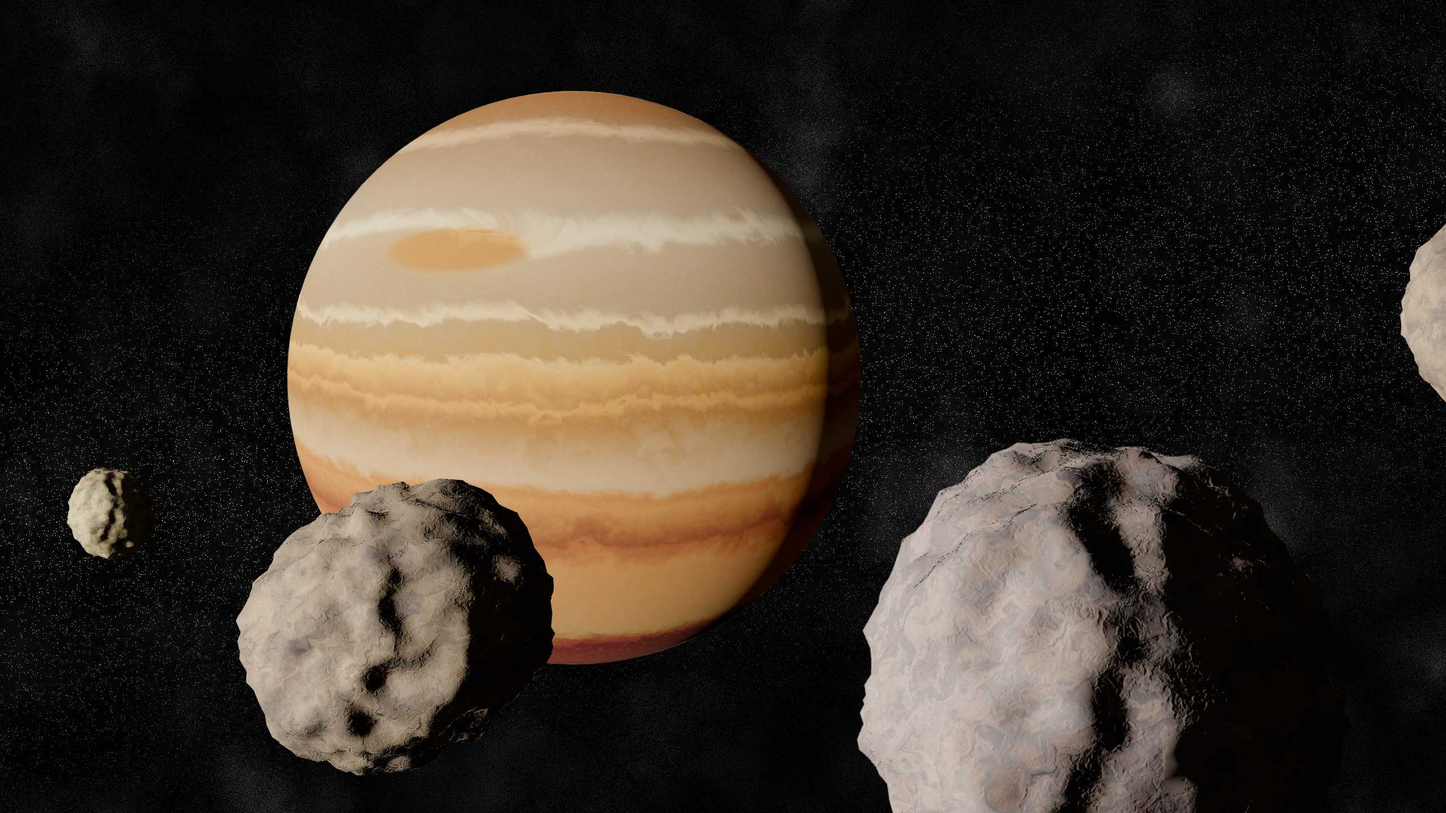
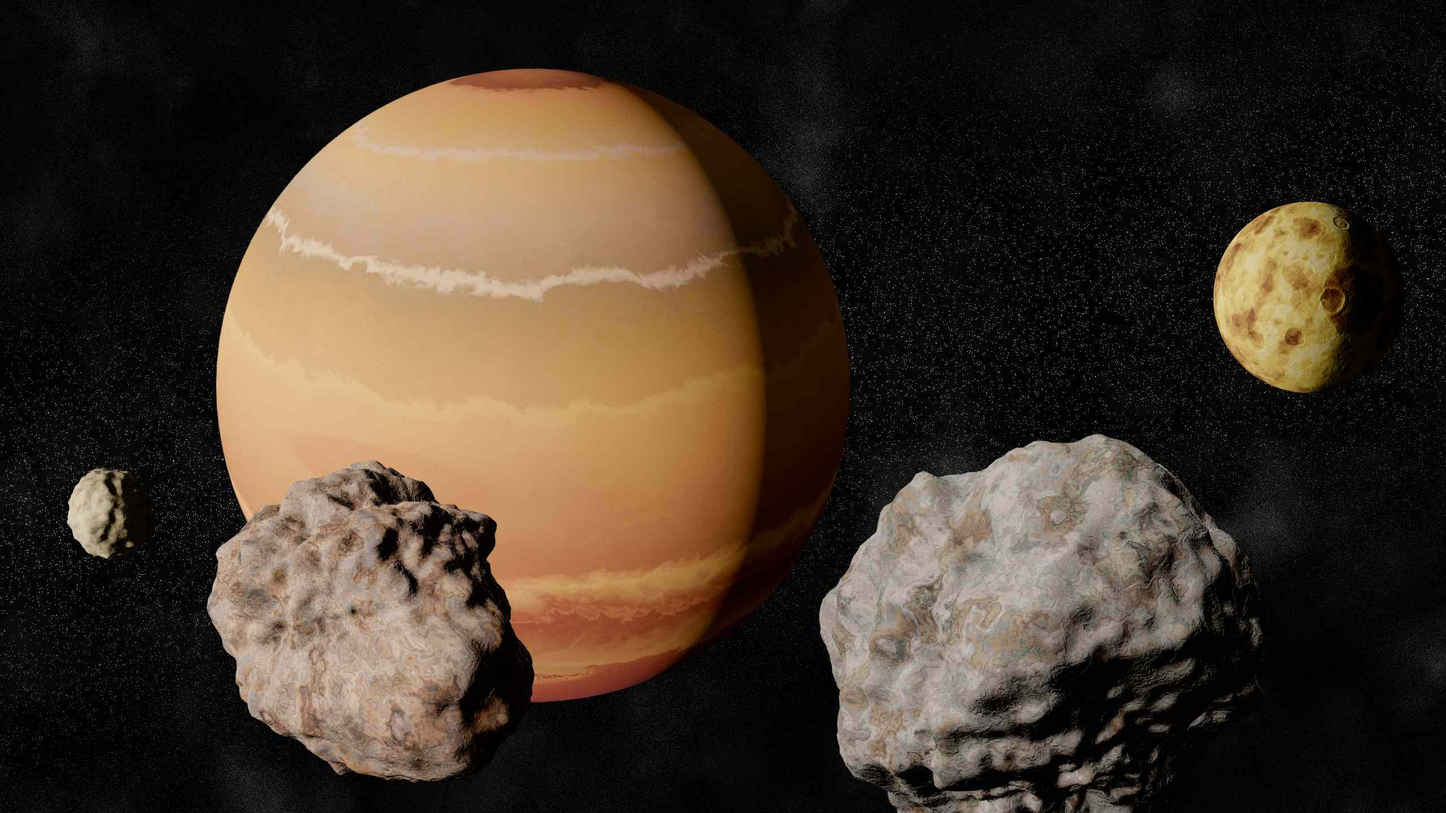
Crater scale setting

diff --git a/src/lib/components/Threlte/Objects/PlanetoidGpuTextures.ts b/src/lib/components/Threlte/Objects/PlanetoidGpuTextures.ts
@@ -25,6 +25,7 @@ type PaletteColor = { r: number; g: number; b: number }
 type SurfaceDetailTextureOptions = {
   enableCraters?: boolean
   craterCount?: number
+  craterScale?: number
   craterStrength?: number
   craterSharpness?: number
   enableVolcanoes?: boolean
@@ -64,6 +65,7 @@ type ColorTextureOptions = {
   debugMidline?: boolean
   enableCraters?: boolean
   craterCount?: number
+  craterScale?: number
   craterColorStrength?: number
   craterSharpness?: number
   enableVolcanoes?: boolean
@@ -100,6 +102,7 @@ const fragmentShader = `
   uniform float uTextureScale;
   uniform int uEnableCraters;
   uniform int uCraterCount;
+  uniform float uCraterScale;
   uniform float uCraterStrength;
   uniform float uCraterColorStrength;
   uniform float uCraterSharpness;
@@ -278,17 +281,6 @@ const fragmentShader = `
 
     float minRadius = 0.018;
     float maxRadius = 0.078;
-    float largeCount = max(1.0, floor(float(uCraterCount) * 0.15 + 0.5));
-
-    float normalizedRadius;
-    if (fi < largeCount) {
-      normalizedRadius = 1.0 - pow(radiusSample, 2.4);
-    } else {
-      normalizedRadius = pow(radiusSample, 3.2);
-    }
-
-    centerUv = vec2(u, v);
-    radius = mix(minRadius, maxRadius, normalizedRadius);
 
     float countMinusOne = max(1.0, float(uCraterCount - 1));
     float chronology = fi / countMinusOne;
@@ -296,6 +288,29 @@ const fragmentShader = `
 
     // Older craters are laid first in index order and are generally more eroded.
     age = clamp(1.0 - chronology + ageJitter, 0.0, 1.0);
+
+    // Older craters trend larger, but with pseudo-random local variance so the
+    // age-size relationship is not perfectly linear.
+    float sizeNoiseA = hash12(vec2(fi * 4.11, uSeed.x * 0.001 + 131.0));
+    float sizeNoiseB = hash12(vec2(fi * 6.73, uSeed.y * 0.001 + 173.0));
+    float ageBias = pow(age, 1.35);
+    float variance = (sizeNoiseA - 0.5) * 0.55 + (sizeNoiseB - 0.5) * 0.25;
+    float effectiveAge = clamp(ageBias + variance, 0.0, 1.0);
+
+    float localExponent = mix(3.2, 1.15, effectiveAge);
+    float normalizedRadius = pow(radiusSample, localExponent);
+
+    // Occasionally produce very large old impact basins without making all old
+    // craters giant.
+    float basinChance = smoothstep(0.72, 1.0, effectiveAge);
+    float basinNoise = hash12(vec2(fi * 9.47, uSeed.z * 0.001 + 211.0));
+    float basinBoost = basinChance * pow(basinNoise, 3.0) * 0.35;
+    normalizedRadius = clamp(normalizedRadius + basinBoost, 0.0, 1.0);
+
+    centerUv = vec2(u, v);
+    float baseRadius = mix(minRadius, maxRadius, normalizedRadius);
+    float scale = clamp(uCraterScale, 0.25, 3.0);
+    radius = baseRadius * scale;
   }
 
   float craterNormalizedDistance(vec2 uv, vec2 craterUv, float craterRadius, float craterAge) {
@@ -826,6 +841,7 @@ const material = new ShaderMaterial({
     uTextureScale: new Uniform(1),
     uEnableCraters: new Uniform(1),
     uCraterCount: new Uniform(22),
+    uCraterScale: new Uniform(1),
     uCraterStrength: new Uniform(0.32),
     uCraterColorStrength: new Uniform(0.3),
     uCraterSharpness: new Uniform(CRATER_RIM_SHARPNESS),
@@ -931,6 +947,7 @@ function renderTexture(
     textureScale?: number
     enableCraters?: boolean
     craterCount?: number
+    craterScale?: number
     craterStrength?: number
     craterColorStrength?: number
     craterSharpness?: number
@@ -975,6 +992,12 @@ function renderTexture(
   material.uniforms.uTextureScale.value = toFiniteNumber(options.textureScale, 1)
   material.uniforms.uEnableCraters.value = (options.enableCraters ?? true) ? 1 : 0
   material.uniforms.uCraterCount.value = Math.min(96, toNonNegativeInt(options.craterCount, 22))
+  material.uniforms.uCraterScale.value = toClampedNumber(
+    options.craterScale,
+    DefaultValues.craterScale,
+    MinValues.craterScale,
+    MaxValues.craterScale
+  )
   material.uniforms.uCraterStrength.value = toClampedNumber(
     options.craterStrength,
     DefaultValues.craterStrength,
@@ -1143,6 +1166,7 @@ export function createPlanetoidColorTexture(
     textureScale,
     enableCraters: options.enableCraters,
     craterCount: options.craterCount,
+    craterScale: options.craterScale,
     craterColorStrength: options.craterColorStrength,
     craterSharpness: options.craterSharpness,
     enableVolcanoes: options.enableVolcanoes,
@@ -1184,6 +1208,7 @@ export function createPlanetoidNormalTexture(
   const texture = renderTexture(renderer, 4, width, height, noiseOffset, {
     enableCraters: options.enableCraters,
     craterCount: options.craterCount,
+    craterScale: options.craterScale,
     craterStrength: options.craterStrength,
     craterSharpness: options.craterSharpness,
     enableVolcanoes: options.enableVolcanoes,

diff --git a/src/lib/components/Threlte/Objects/PlanetoidSettings.ts b/src/lib/components/Threlte/Objects/PlanetoidSettings.ts
@@ -27,6 +27,7 @@ export type PlanetoidSettings = {
   tintShadowFloor: number
   swirliness: number
   craterCount: number
+  craterScale: number
   craterStrength: number
   craterSharpness: number
   craterColorStrength: number
@@ -73,6 +74,7 @@ export type PlanetoidRangeValues = Pick<
   | 'tintShadowFloor'
   | 'swirliness'
   | 'craterCount'
+  | 'craterScale'
   | 'craterStrength'
   | 'craterSharpness'
   | 'craterColorStrength'
@@ -119,6 +121,7 @@ export const DefaultValues: PlanetoidSettings = {
   tintShadowFloor: 0.18,
   swirliness: 1,
   craterCount: 20,
+  craterScale: 1,
   craterStrength: 5,
   craterSharpness: 3.5,
   craterColorStrength: 0.95,
@@ -155,6 +158,7 @@ export const MinValues: PlanetoidRangeValues = {
   tintShadowFloor: 0,
   swirliness: 0,
   craterCount: 0,
+  craterScale: 0.25,
   craterStrength: 0,
   craterSharpness: 0.5,
   craterColorStrength: 0,
@@ -191,6 +195,7 @@ export const MaxValues: PlanetoidRangeValues = {
   tintShadowFloor: 0.8,
   swirliness: 2,
   craterCount: 120,
+  craterScale: 3,
   craterStrength: 10,
   craterSharpness: 8,
   craterColorStrength: 3,
@@ -227,6 +232,7 @@ export const StepValues: PlanetoidRangeValues = {
   tintShadowFloor: 0.01,
   swirliness: 0.05,
   craterCount: 1,
+  craterScale: 0.05,
   craterStrength: 0.1,
   craterSharpness: 0.1,
   craterColorStrength: 0.05,
@@ -284,6 +290,11 @@ const NUMERIC_SANITIZE_SPECS: Record<PlanetoidRangeKey, NumericSanitizeSpec> = {
     min: MinValues.craterCount,
     max: MaxValues.craterCount,
     round: true,
+  },
+  craterScale: {
+    defaultValue: DefaultValues.craterScale,
+    min: MinValues.craterScale,
+    max: MaxValues.craterScale,
   },
   craterStrength: {
     defaultValue: DefaultValues.craterStrength,
@@ -451,6 +462,7 @@ export function sanitizePlanetoidSettings(input: unknown): PlanetoidSettings {
     tintShadowFloor: numeric.tintShadowFloor,
     swirliness: numeric.swirliness,
     craterCount: numeric.craterCount,
+    craterScale: numeric.craterScale,
     craterStrength: numeric.craterStrength,
     craterSharpness: numeric.craterSharpness,
     craterColorStrength: numeric.craterColorStrength,
@@ -523,6 +535,7 @@ export const PlanetoidRangeLabels: Record<PlanetoidRangeKey, string> = {
   tintShadowFloor: 'Tint shadow floor',
   swirliness: 'Swirliness',
   craterCount: 'Crater count',
+  craterScale: 'Crater scale',
   craterStrength: 'Crater strength',
   craterSharpness: 'Crater sharpness',
   craterColorStrength: 'Crater color',
@@ -581,6 +594,7 @@ export const PlanetoidCliFlagByRangeKey: Record<PlanetoidRangeKey, string> = {
   tintShadowFloor: '--tint-shadow-floor',
   swirliness: '--swirliness',
   craterCount: '--crater-count',
+  craterScale: '--crater-scale',
   craterStrength: '--crater-strength',
   craterSharpness: '--crater-sharpness',
   craterColorStrength: '--crater-color',

diff --git a/src/lib/components/Threlte/Objects/Planetoid.svelte b/src/lib/components/Threlte/Objects/Planetoid.svelte
@@ -43,6 +43,7 @@
     normalStrength?: number
     enableCraters?: boolean
     craterCount?: number
+    craterScale?: number
     craterStrength?: number
     craterSharpness?: number
     craterColorStrength?: number
@@ -88,6 +89,7 @@
     normalStrength = DefaultValues.normalStrength,
     enableCraters = DefaultValues.enableCraters,
     craterCount = DefaultValues.craterCount,
+    craterScale = DefaultValues.craterScale,
     craterStrength = DefaultValues.craterStrength,
     craterSharpness = DefaultValues.craterSharpness,
     craterColorStrength = DefaultValues.craterColorStrength,
@@ -577,6 +579,7 @@
     const planetoidPalette = AllPalettes[palette]
     const textureScale = colorScale
     const currentCraterCount = craterCount
+    const currentCraterScale = craterScale
     const currentCraterColorStrength = craterColorStrength
     const currentCraterSharpness = craterSharpness
     const currentEnableCraters = enableCraters
@@ -611,6 +614,7 @@
         tintShadowFloor: currentTintShadowFloor,
         swirliness: currentSwirliness,
         craterCount: currentCraterCount,
+        craterScale: currentCraterScale,
         craterColorStrength: currentCraterColorStrength,
         craterSharpness: currentCraterSharpness,
         enableCraters: currentEnableCraters,
@@ -712,6 +716,7 @@
     const currentNormalStrength = normalStrength
     const currentEnableCraters = enableCraters
     const currentCraterCount = craterCount
+    const currentCraterScale = craterScale
     const currentCraterStrength = craterStrength
     const currentCraterSharpness = craterSharpness
     const volcanoesEnabled = enableVolcanoes
@@ -732,6 +737,7 @@
 
     const detailOptions = {
       craterCount: currentCraterCount,
+      craterScale: currentCraterScale,
       craterStrength: currentCraterStrength,
       craterSharpness: currentCraterSharpness,
       enableCraters: currentEnableCraters,

diff --git a/scripts/auto-generate-planetoids.ts b/scripts/auto-generate-planetoids.ts
@@ -44,6 +44,7 @@ type ScriptOptions = {
   tintShadowFloor?: number
   swirliness?: number
   craterCount?: number
+  craterScale?: number
   craterStrength?: number
   craterColorStrength?: number
   ridgeStrength?: number
@@ -99,6 +100,7 @@ const DEFAULT_OPTIONS: ScriptOptions = {
   tintShadowFloor: undefined,
   swirliness: undefined,
   craterCount: undefined,
+  craterScale: undefined,
   craterStrength: undefined,
   craterColorStrength: undefined,
   ridgeStrength: undefined,
@@ -497,6 +499,7 @@ async function main() {
       `tintShadowFloor=${options.tintShadowFloor ?? 'unchanged'}`,
       `swirliness=${options.swirliness ?? 'unchanged'}`,
       `craterCount=${options.craterCount ?? 'unchanged'}`,
+      `craterScale=${options.craterScale ?? 'unchanged'}`,
       `craterStrength=${options.craterStrength ?? 'unchanged'}`,
       `craterColorStrength=${options.craterColorStrength ?? 'unchanged'}`,
       `ridgeStrength=${options.ridgeStrength ?? 'unchanged'}`,

diff --git a/src/pages/PlanetoidView.svelte b/src/pages/PlanetoidView.svelte
@@ -77,6 +77,7 @@
     'swirliness',
     'normalStrength',
     'craterCount',
+    'craterScale',
     'craterStrength',
     'craterSharpness',
     'craterColorStrength',
@@ -153,6 +154,7 @@
   const materialControlKeys: NumericControlKey[] = ['normalStrength', 'roughness', 'metalness']
   const craterControlKeys: NumericControlKey[] = [
     'craterCount',
+    'craterScale',
     'craterStrength',
     'craterSharpness',
     'craterColorStrength',
@@ -778,6 +780,7 @@
           triangleDetail={planetoid.triangleDetail}
           normalStrength={planetoid.normalStrength}
           craterCount={planetoid.craterCount}
+          craterScale={planetoid.craterScale}
           craterStrength={planetoid.craterStrength}
           craterSharpness={planetoid.craterSharpness}
           craterColorStrength={planetoid.craterColorStrength}

diff --git a/src/lib/components/Threlte/PlanetoidScene.svelte b/src/lib/components/Threlte/PlanetoidScene.svelte
@@ -24,6 +24,7 @@
     normalStrength?: number
     enableCraters?: boolean
     craterCount?: number
+    craterScale?: number
     craterStrength?: number
     craterSharpness?: number
     craterColorStrength?: number
@@ -69,6 +70,7 @@
     normalStrength = DefaultValues.normalStrength,
     enableCraters = DefaultValues.enableCraters,
     craterCount = DefaultValues.craterCount,
+    craterScale = DefaultValues.craterScale,
     craterStrength = DefaultValues.craterStrength,
     craterSharpness = DefaultValues.craterSharpness,
     craterColorStrength = DefaultValues.craterColorStrength,
@@ -238,6 +240,7 @@
   {normalStrength}
   {enableCraters}
   {craterCount}
+  {craterScale}
   {craterStrength}
   {craterSharpness}
   {craterColorStrength}

diff --git a/README.md b/README.md
@@ -87,13 +87,13 @@ This helper runs curated gas giant profiles and advances start seeds between eac
 
 Generated examples from `public/generated`:
 
-![Generated planetoid example 1](public/generated/generated-planetoid-20260816-123153.png)
+![Generated planetoid example 1](public/generated/generated-planetoid-20260829-191358.png)
 
-![Generated planetoid example 2](public/generated/generated-planetoid-20260816-132812.png)
+![Generated planetoid example 2](public/generated/generated-planetoid-20260829-194942.png)
 
-![Generated planetoid example 3](public/generated/generated-planetoid-20260816-132923.png)
+![Generated planetoid example 3](public/generated/generated-planetoid-20260829-195128.png)
 
-![Generated planetoid example 4](public/generated/generated-planetoid-20260816-132946.png)
+![Generated planetoid example 4](public/generated/generated-planetoid-20260829-195222.png)
 
 ## Notes
 
